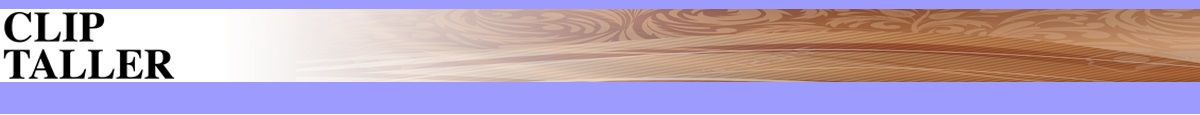
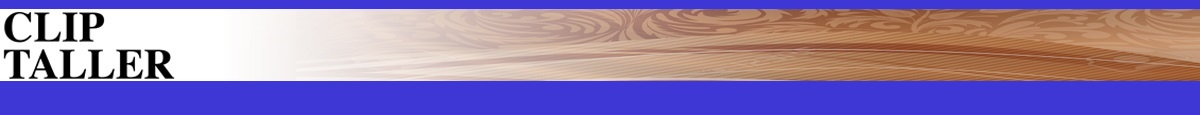
header azúl

diff --git a/public/css/style.css b/public/css/style.css
@@ -127,10 +127,10 @@ input:checked + .slider:before {
     padding-right: 20px;
 }
 .navbar-default .navbar-nav>li>a, .navbar-default .navbar-text{
-    color: #5c5c5c;
+    color: #ffffff;
 }
 .navbar-default .navbar-nav > li > a:hover, .navbar-default .navbar-nav > li > a:focus {
-    color: #000000;
+    color: cyan;
     background-color: transparent;
 }
 .navbar-default .navbar-nav>.active>a, .navbar-default .navbar-nav>.active>a:focus, .navbar-default .navbar-nav>.active>a:hover {

diff --git a/resources/views/montajes/index.blade.php b/resources/views/montajes/index.blade.php
@@ -49,8 +49,15 @@
           <label for="medidas_montaje">Alto</label>
           <input type="number" name="alto" id="alto_montaje" class="form-control" step="any" required>
         </div>
- 				
- 				
+ 				<div class="col-sm-3">
+          <label for="tipo_medidas">Tipo de medidas</label>
+          <select class="form-control" id="tipo_medidas" name="tipo_medidas" required>
+            <option value="">Seleccionar</option>
+            <option value="Milímetros">Milímetros</option>
+            <option value="Centímetros">Centímetros</option>
+            <option value="Metros">Metros</option>
+          </select>
+        </div>
  			</div><br>
       <div class="row">
         <div class="col-sm-3">
@@ -63,18 +70,21 @@
         </div>
       </div><br>
       <div class="row">
-        <div class="col-sm-3">
+        <div class="col-sm-4">
           <label for="proveedor">Proveedor</label>
-          <select class="form-control" id="descripcion_sel" name="proveedor" required>
+           <div class="input-group">
+            <span class="input-group-addon" id="basic-addon3" onclick='getProveedor()'><i class="fa fa-refresh" aria-hidden="true"></i></span>
+          <select class="form-control" id="proveedor" name="proveedor" required>
     <option value="">Seleccionar</option>
     @foreach($provedores as $provedor)
-     @if($provedor->razonsocial==null)
-    <option value="{{$provedor->nombre}}">{{$provedor->nombre}}</option>
-     @else
+     @isset($provedor->razonsocial)
      <option value="{{$provedor->razonsocial}}">{{$provedor->razonsocial}}</option>
-     @endif
+     @else
+     <option value="{{$provedor->nombre}}">{{$provedor->nombre}}</option>
+     @endisset
     @endforeach
   </select>
+    </div>
         </div>
         <div class="col-sm-2">
           <label for="precio">Precio</label>
@@ -82,7 +92,7 @@
         </div>
         <div class="col-sm-3">
           <br>
-          <button type="sumbit" class=" btn btn-warning"><strong>Crear</strong></button>
+          <button type="sumbit" class="btn btn-warning"><strong>Crear</strong></button>
         </div>
       </div><br>
  				
@@ -91,9 +101,9 @@
  		{{-- Descripción --}}
 
  		{{-- Materiales --}}
- 		<div class="container jumbotron">
+ 		<div class="container jumbotron" style="color: black;">
 	<table class="table">
-    <thead class="thead-dark">
+    <thead class="thead-dark" style="background-color: darkblue;color: white;">
       <tr>
         <th>Nombre/Descripción</th>
         <th>Clave</th>
@@ -104,7 +114,7 @@
     </thead>
     <tbody>
     	@foreach($materiales as $material)
-      <form action="">
+      <form action="##" id="elim">
         <input type="hidden" id="id_montaje"name="id_montaje" value="{{$material->id}}">
       </form>
       <tr>
@@ -112,7 +122,7 @@
         <td>{{$material->clave}}</td>
         <td>${{$material->precio}}</td>
         <td>{{$material->proveedor}}</td>
-        <td><button><strong>Eliminar</strong></button></td>
+        <td><button class="btn btn-danger" onclick="deleteFunction('#elim')"><strong>Eliminar</strong></button></td>
       </tr>
       @endforeach
     </tbody>
@@ -123,5 +133,25 @@
  </div>
 
 
+<script type="text/javascript">
+  
+ 
 
+    function getProveedor(){
+      $.ajaxSetup({
+        headers: {
+          'X-CSRF-TOKEN': $('meta[name="csrf-token"]').attr('content')
+        }
+      });
+      $.ajax({
+        url: "{{ url('/getprov') }}",
+          type: "GET",
+          dataType: "html",
+      }).done(function(resultado){
+          $("#proveedor").html(resultado);
+      });
+    }
+
+
+  </script>
  @endsection

diff --git a/resources/views/welcome.blade.php b/resources/views/welcome.blade.php
@@ -32,10 +32,10 @@
 
 <!-- Navigation -->
 <div id="app">
-    <nav class="navbar navbar-default navbar-static-top">
-        <div class="container topnav">
+    <nav class="navbar navbar-default navbar-static-top" style="background-color: black;">
+        <div class="container topnav" >
             <!-- Brand and toggle get grouped for better mobile display -->
-            <div class="navbar-header">
+            <div class="navbar-header" >
                 <button type="button" class="navbar-toggle" data-toggle="collapse" data-target="#bs-example-navbar-collapse-1">
                     <span class="sr-only">Toggle navigation</span>
                     <span class="icon-bar"></span>
@@ -67,7 +67,7 @@
 
 
 
-
+                    {{--  Clientes  --}}
                     <li class="dropdown">
                         <a href="#" class="dropdown-toggle" data-toggle="dropdown" role="button" aria-expanded="false"><i class="fa fa-users" aria-hidden="true"></i> Clientes<span class="caret"></span> </a>
                         <ul class="dropdown-menu" role="menu">
@@ -100,13 +100,13 @@
                                              <i class="fa fa-refresh" aria-hidden="true"></i>Forma Contactos</a></li>
                                     </ul>
                                   </li>
+                                </li>
+                              </ul>
+                            </li>
+                    {{--  Clientes  --}}
 
 
-
-                            </li>                     
-                        </ul>
-                    </li>
-
+                    {{--  Tipo de Cambio  --}}
                        <li class="dropdown">
                        <a href="#" class="dropdown-toggle" data-toggle="dropdown" role="button" aria-expanded="false"><i class="fa fa-dollar" aria-hidden="true"></i> Tipo de Cambio <span class="caret"></span> </a>
                         <ul class="dropdown-menu" role="menu">
@@ -117,6 +117,8 @@
                             </li>                     
                         </ul>
                     </li> 
+                    {{--  Tipo de Cambio  --}}
+
                     {{--  Materiales  --}}
                     <li class="dropdown">
                         <a href="#" class="dropdown-toggle" data-toggle="dropdown" role="button" aria-expanded="false"><i class="fa fa-cubes" aria-hidden="true"></i>Materiales<span class="caret"></span> </a>
@@ -275,19 +277,15 @@
                                    <i class="fa fa-refresh" aria-hidden="true"></i>Historial</a>  
 
                             </li>                     
-                        </li>
-
-                    
-
-
-
-
-                </ul> 
+                        </ul> 
+                      </li>
+                    </ul>
             </div>
-            @endif
-        </ul>
+           </div>
+            <!-- @endif -->
+        
             <!-- /.navbar-collapse -->
-        </div>
+        
         <!-- /.container -->
     </nav>
     <div class="container" style="width: 100%; height: 100%;">

diff --git a/routes/web.php b/routes/web.php
@@ -27,6 +27,7 @@ Route::get('getbajas','Precargas\TipoBajaController@getBajas');
 Route::get('getgiros','Giro\GiroController@getGiros');
 Route::get('getformas','FormaContacto\FormaContactoController@getFormas');
 Route::get('getfaltas','Falta\FaltaController@getFaltas');
+Route::get('getprov','Provedor\ProvedorController@getProveedor');
 
 // Route::get('/home', 'HomeController@index')->name('home');
 Route::get('prospectos', 'Personal\PersonalController@search');

diff --git a/resources/views/layouts/app.blade.php b/resources/views/layouts/app.blade.php
@@ -43,7 +43,7 @@
     </head>
 <body>
     <div id="app">
-        <nav class="navbar navbar-default navbar-static-top" {{-- style="background: #55688a;" --}}>
+        <nav class="navbar navbar-default navbar-static-top"  style="background: #55688a;" >
             <div class="container">
                 <div class="navbar-header">
 

diff --git a/app/Http/Controllers/Provedor/ProvedorController.php b/app/Http/Controllers/Provedor/ProvedorController.php
@@ -130,4 +130,9 @@ class ProvedorController extends Controller{
     }
 
 
+    public function getProveedor(){
+        $provedores = Provedor::get();
+        return view('precargas.select',['precargas'=>$provedores]);
+    }
+
 }
